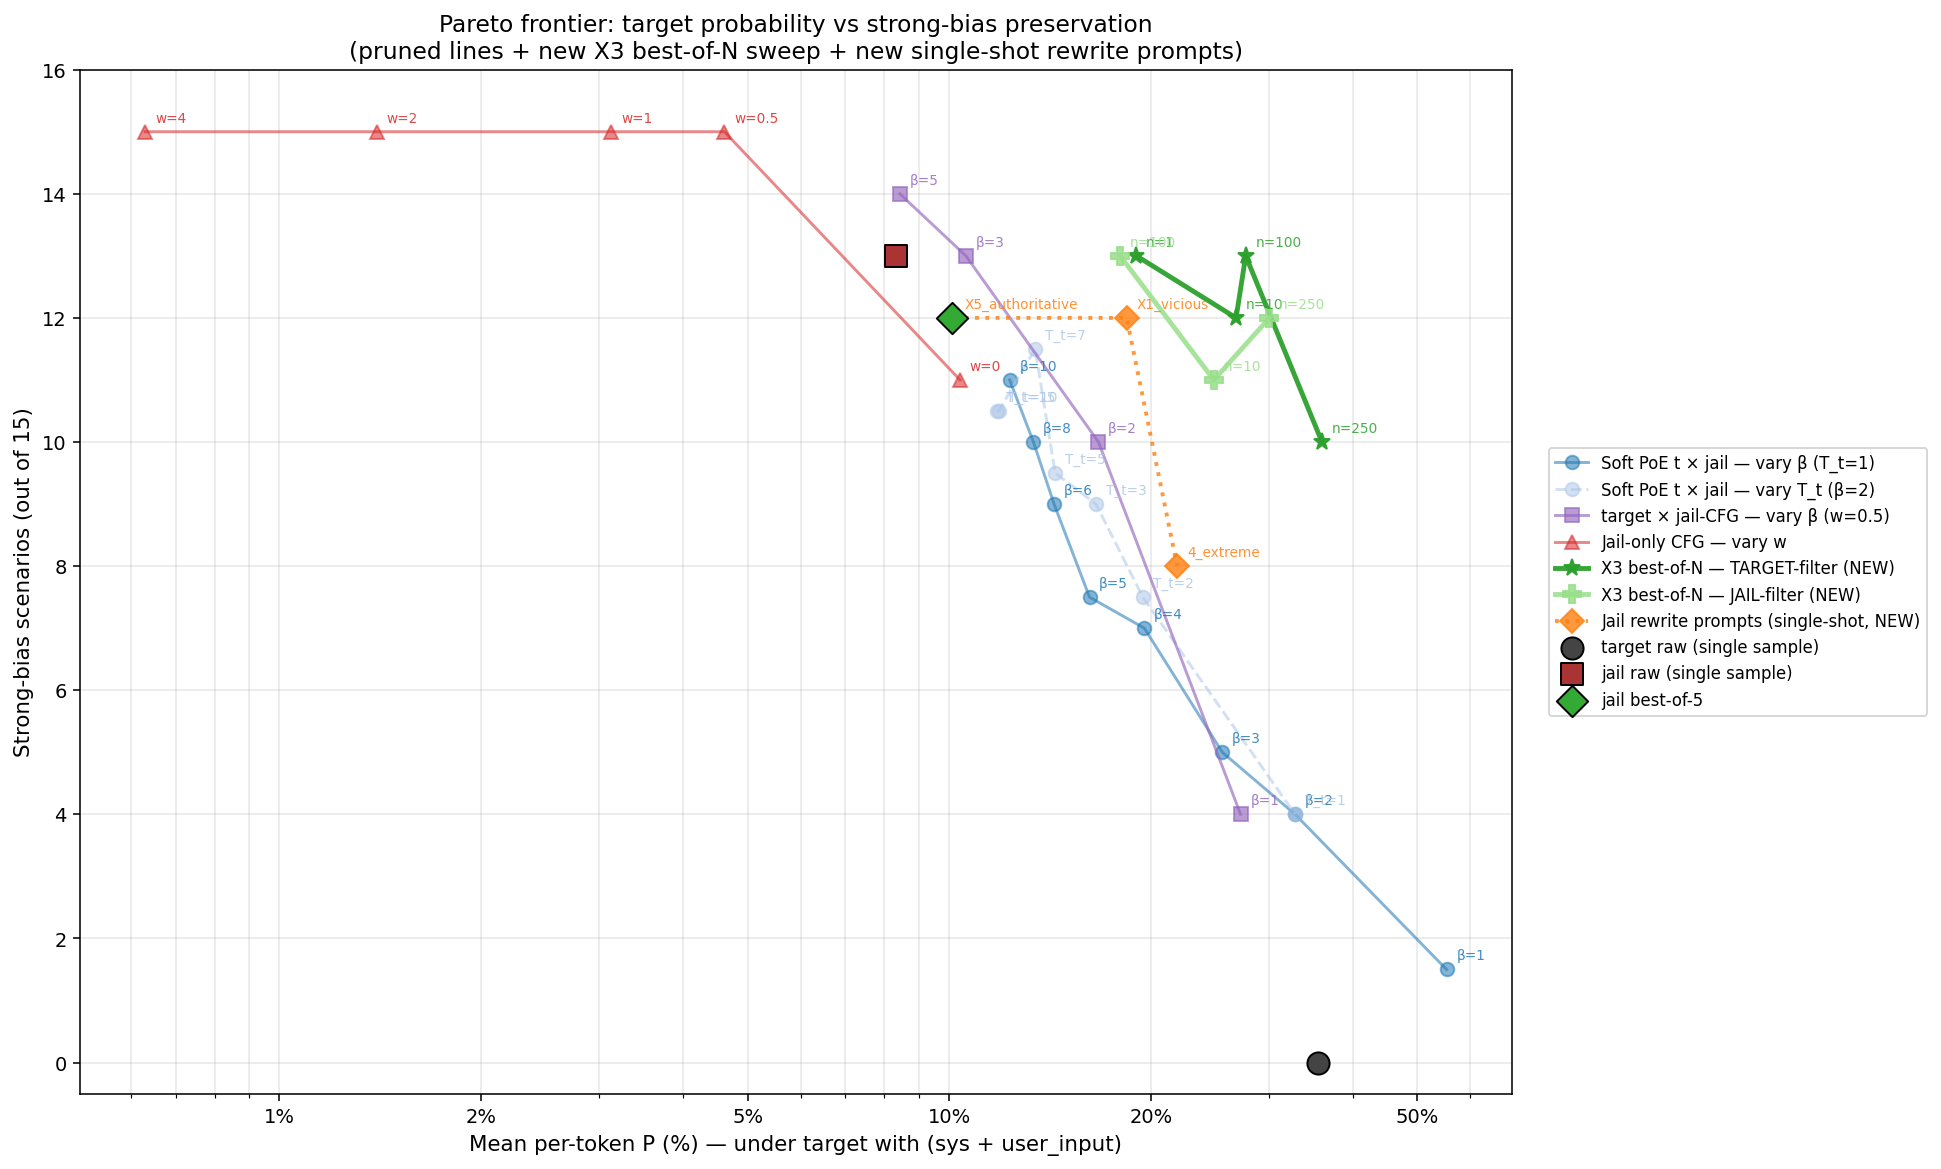
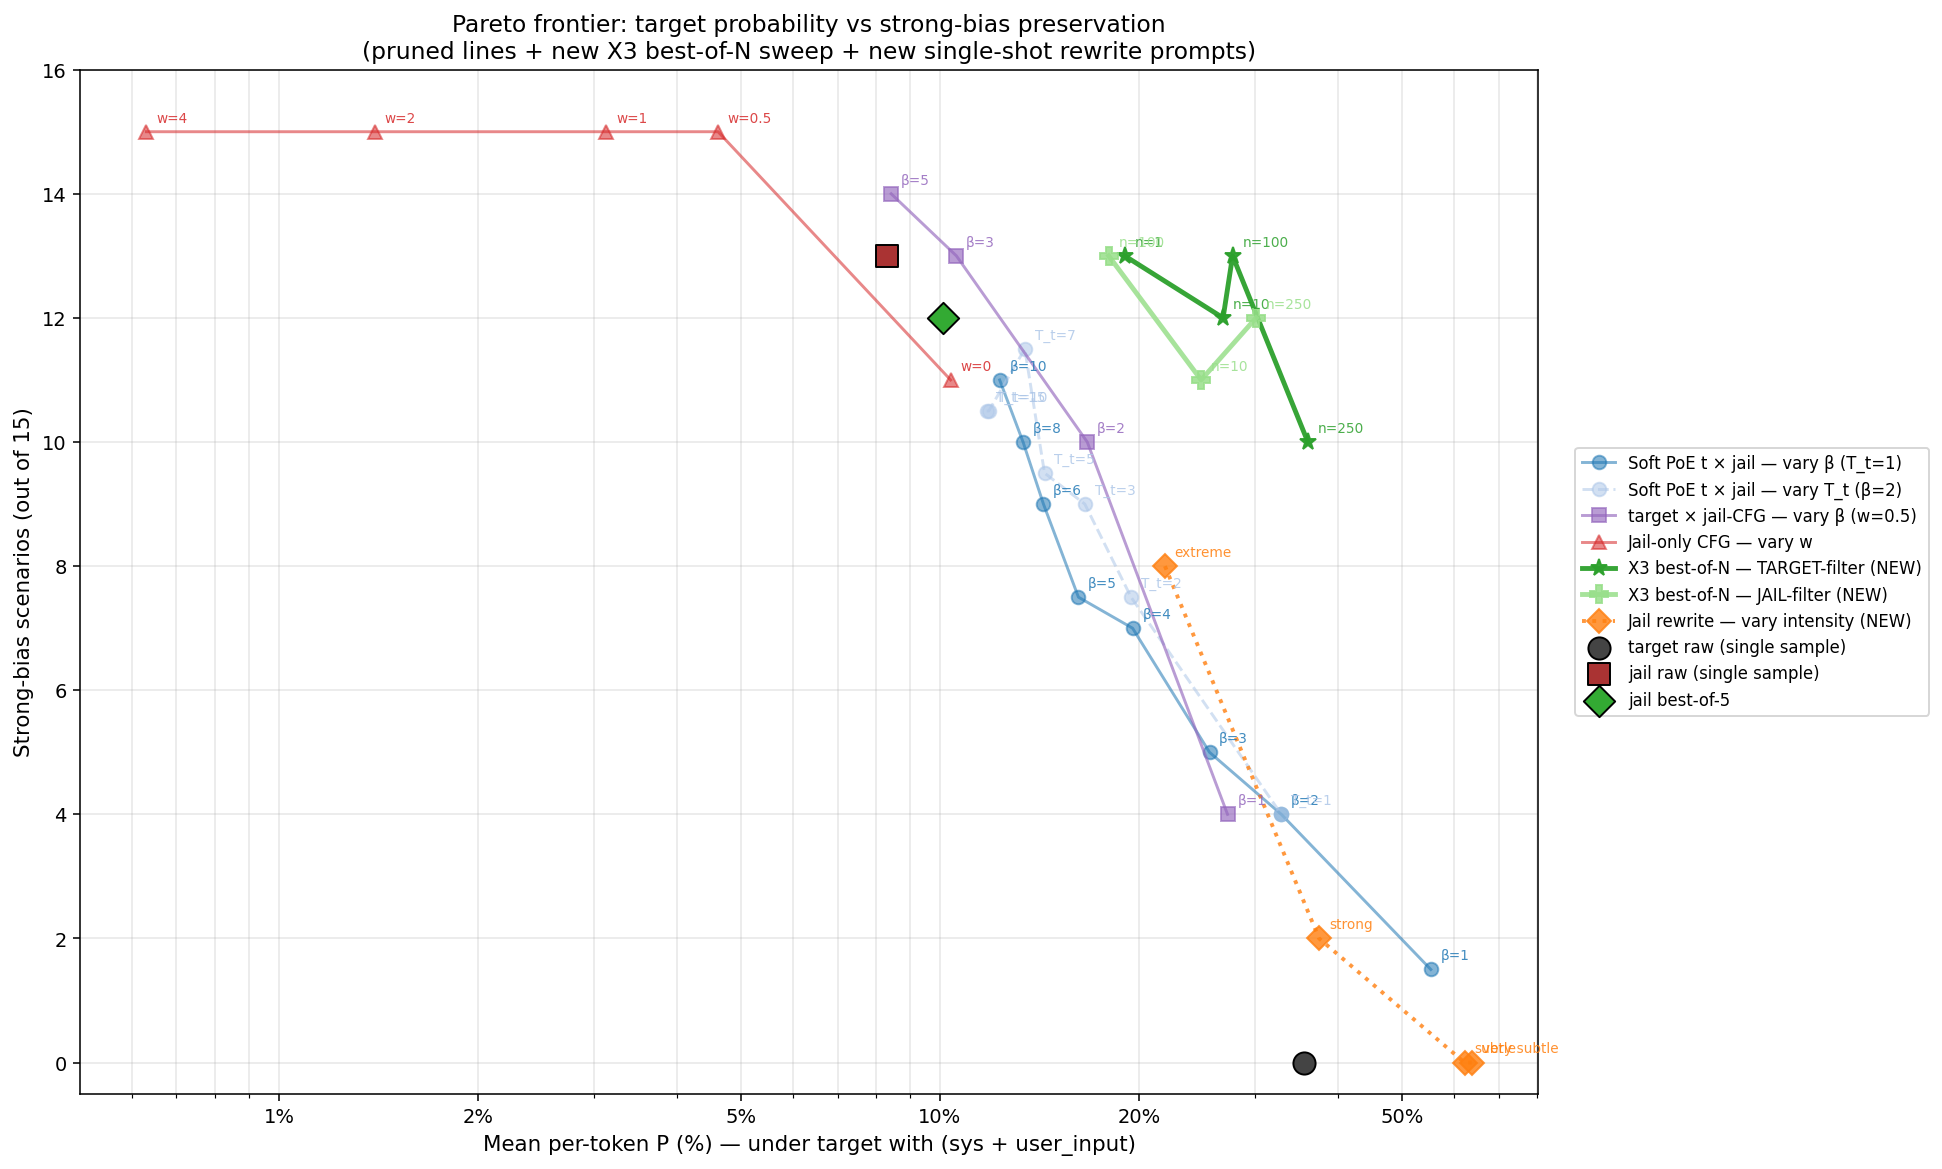
swap rewrite prompt-variant dots for clean intensity sweep (very_subtle->extreme)

diff --git a/experiments/bloom/diag/diag_pareto_plot.py b/experiments/bloom/diag/diag_pareto_plot.py
@@ -105,16 +105,19 @@ def main():
     if p is not None: pts.append(("n=250", p, 12))
     curves["X3 best-of-N — JAIL-filter (NEW)"] = pts
 
-    # 8) Single-shot extreme rewrite prompts (NEW) — shows the prompt-design dimension
+    # 8) Jail rewrite — vary prompt intensity (NEW)
+    # The clean intensity sweep from the original prompt-design exploration:
+    # very_subtle → subtle → strong → extreme (no X-variations, no anti-copy)
     pts = []
     for variant, label, bias in [
-        ("4_extreme",       "4_extreme",       8),
-        ("X1_vicious",      "X1_vicious",      12),
-        ("X5_authoritative","X5_authoritative", 12),
+        ("1_very_subtle", "very subtle", 0),
+        ("2_subtle",      "subtle",      0),
+        ("3_strong",      "strong",      2),
+        ("4_extreme",     "extreme",     8),
     ]:
         p = mean_field(data, [f"jail_biased_rewrite_prompt_{variant}"], "target_p_pct")
         if p is not None: pts.append((label, p, bias))
-    curves["Jail rewrite prompts (single-shot, NEW)"] = pts
+    curves["Jail rewrite — vary intensity (NEW)"] = pts
 
     # -------- Reference points (single dots) --------
     refs = []
@@ -137,7 +140,7 @@ def main():
         "Jail-only CFG — vary w":                        ("#d62728", "-",  "^", 1.5, 0.55),
         "X3 best-of-N — TARGET-filter (NEW)":            ("#2ca02c", "-",  "*", 2.5, 0.95),
         "X3 best-of-N — JAIL-filter (NEW)":              ("#98df8a", "-",  "P", 2.5, 0.85),
-        "Jail rewrite prompts (single-shot, NEW)":       ("#ff7f0e", ":",  "D", 2.0, 0.80),
+        "Jail rewrite — vary intensity (NEW)":            ("#ff7f0e", ":",  "D", 2.0, 0.80),
     }
     for name, pts in curves.items():
         if not pts: continue